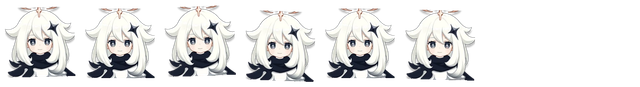
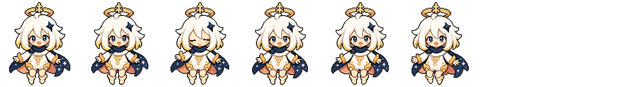
paimon: replace single-image wobble with multi-state community pet

diff --git a/README.md b/README.md
@@ -9,7 +9,7 @@ A collection of pets for the **dsh-pet** plugin in the DeepSeek Harness Web GUI,
 | 流萤 | `firefly` | ![preview](pets/firefly/previews/overview.png) | [RagnarokChan/firefly-codex-pets](https://github.com/RagnarokChan/firefly-codex-pets) | HSR Firefly fan pet (Codex contract) |
 | 流萤花嫁 | `firefly-bride` | ![preview](pets/firefly-bride/previews/overview.png) | [RagnarokChan/firefly-codex-pets](https://github.com/RagnarokChan/firefly-codex-pets) | Firefly wedding variant |
 | 流萤 chibi | `liuying` | ![preview](pets/liuying/previews/overview.png) | [Ruiwang66/codexpetFirefly](https://github.com/Ruiwang66/codexpetFirefly) | AI chibi Firefly |
-| 派蒙 | `paimon` | ![preview](pets/paimon/previews/overview.png) | Programmatic (this repo) | Genshin Paimon generated from a transparent portrait |
+| 派蒙 | `paimon` | ![preview](pets/paimon/previews/overview.png) | [awesome-codex-pet](https://github.com/legeling/awesome-codex-pet) (`paimon--lingxiaotian`) | Multi-state community Paimon (real per-state poses) |
 | 夜兰 | `yelan` | ![preview](pets/yelan/previews/overview.png) | Programmatic (this repo) | Genshin Yelan generated from a transparent portrait |
 
 ## Install
